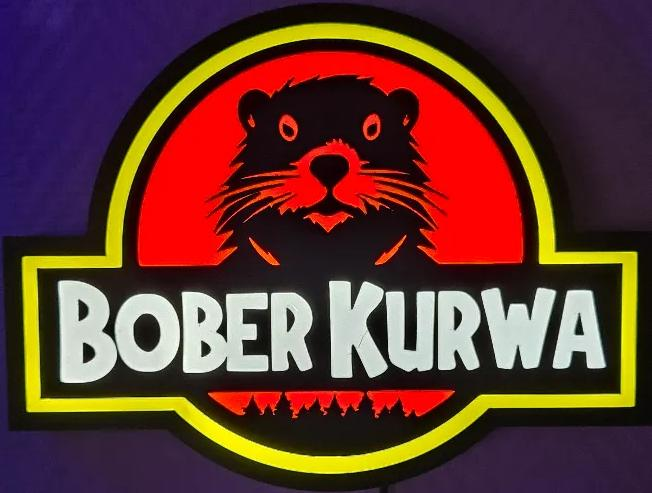
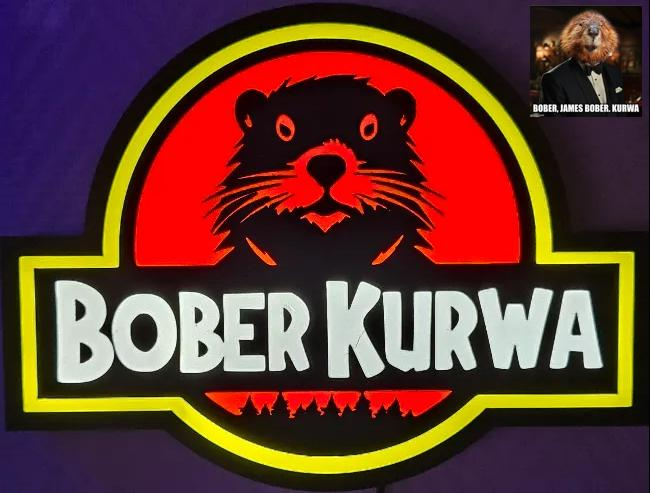
class, test2, resize, paste

diff --git a/main.py b/main.py
@@ -1,5 +1,35 @@
 from PIL import Image
 
+
+class Pic:
+    def __init__(self, path):
+        self.img = Image.open(path)
+
+    def print_info(self):
+        print(self.img.format, self.img.mode, self.img.size)
+
+    def crop(self, left, upper, wdt, hgt):
+        self.img = self.img.crop((left, upper, left+wdt, upper+hgt))
+
+    def resize(self, new_w, new_h):
+        self.img = self.img.resize((int(new_w), int(new_h)))
+
+    def width(self):
+        return self.img.width
+
+    def height(self):
+        return self.img.height
+
+    def show(self):
+        self.img.show()
+
+    def save(self, path):
+        self.img.save(path)
+
+    def paste(self, other, x, y):
+        self.img.paste(other.img, (x, y))
+
+
 def test1():
     #img = Image.new('RGB', (200, 200), (255, 255, 0))
     #img = Image.open("images.jpg")
@@ -10,9 +40,25 @@ def test1():
     img2.show()
     img2.save("out.jpg")
 
+def test2():
+    img = Pic("high.webp")
+    img.print_info()
+    img.crop(16, 418, 650, 493)
+    img.print_info()
+    #img.show()
+    #img.save("out.jpg")
+
+    img2 = Pic("images.jpg")
+    img2.resize(img2.width()/2, img2.height()/2)
+    img.paste(img2, 530, 5)
+    img.print_info()
+    img.show()
+    img.save("out.jpg")
+
 
 if __name__ == '__main__':
-    test1()
+    #test1()
+    test2()
 
 # See PyCharm help at https://www.jetbrains.com/help/pycharm/
 
